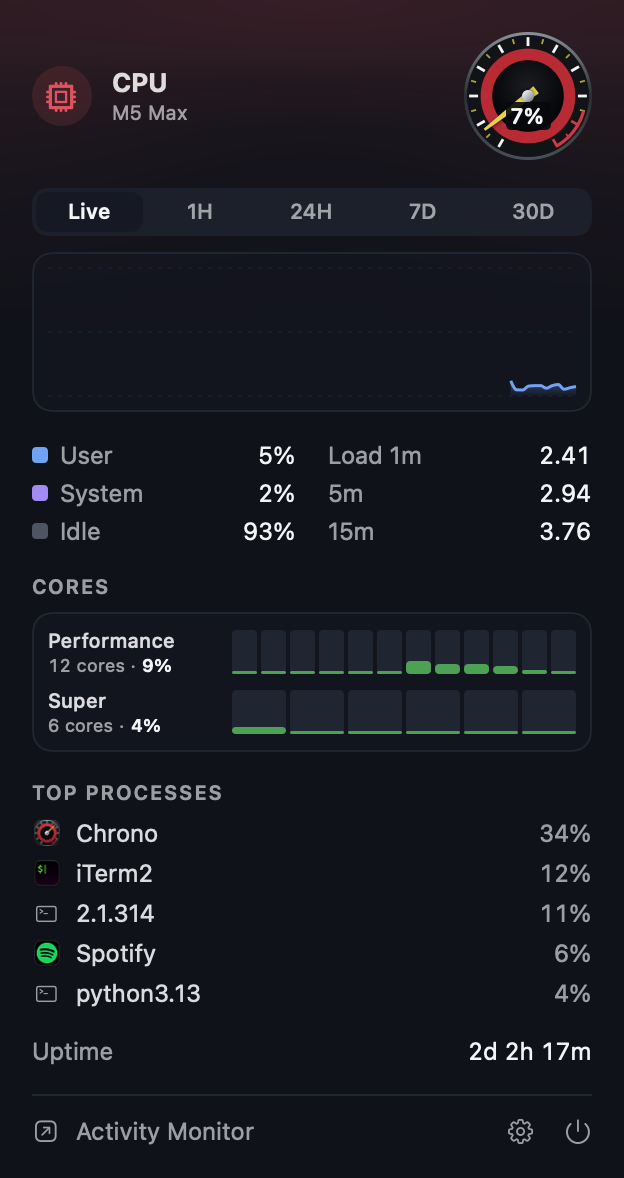
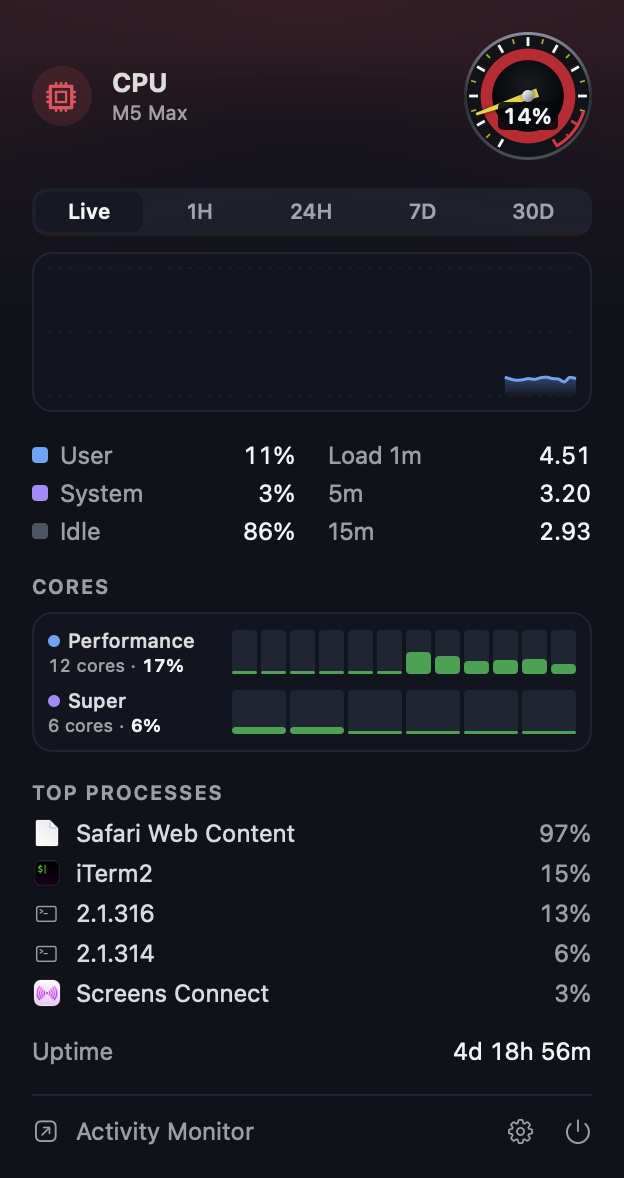
Stop closed panels from re-rendering, and refresh the screenshots
A panel's SwiftUI view stayed alive after its popover closed and kept
re-rendering on every update, about 1% CPU per panel ever opened. Panels
are now built when they open and released when they close, which keeps
the app near 1.7% CPU.

The CPU and GPU screenshots are retaken: the GPU panel shows the Busy,
Clock and Power rows, and snapshot mode's last reading spans 2 seconds,
so it no longer inflates Chrono's own CPU share.

diff --git a/Sources/Chrono/StatusBarController.swift b/Sources/Chrono/StatusBarController.swift
@@ -56,9 +56,6 @@ private final class ModuleItem: NSObject, NSPopoverDelegate {
         popover.behavior = .transient
         popover.animates = true
         popover.delegate = self
-        let host = NSHostingController(rootView: PanelView(module: module, store: store))
-        host.sizingOptions = .preferredContentSize
-        popover.contentViewController = host
         return popover
     }()
 
@@ -118,6 +115,11 @@ private final class ModuleItem: NSObject, NSPopoverDelegate {
                 // instead of showing "Sampling…" until the next regular tick.
                 DispatchQueue.main.asyncAfter(deadline: .now() + 0.6) { [weak self] in self?.store.refresh() }
             }
+            // Built for each opening and dropped on close: a closed panel's view would otherwise keep
+            // re-rendering on every update.
+            let host = NSHostingController(rootView: PanelView(module: module, store: store))
+            host.sizingOptions = .preferredContentSize
+            popover.contentViewController = host
             popover.show(relativeTo: button.bounds, of: button, preferredEdge: .minY)
             popover.contentViewController?.view.window?.makeKey()
         }
@@ -146,6 +148,7 @@ private final class ModuleItem: NSObject, NSPopoverDelegate {
     }
 
     func popoverDidClose(_ notification: Notification) {
+        popover.contentViewController = nil
         if usesProcesses { store.processConsumers = max(0, store.processConsumers - 1) }
     }
 }

diff --git a/Sources/Chrono/Diagnostics.swift b/Sources/Chrono/Diagnostics.swift
@@ -46,6 +46,10 @@ enum Diagnostics {
             store.refreshNow()
             Thread.sleep(forTimeInterval: 0.5)
         }
+        // The last reading spans the app's default interval, so Chrono's own share of the CPU
+        // isn't inflated by sampling four times as often.
+        Thread.sleep(forTimeInterval: 2)
+        store.refreshNow()
 
         // Draw through a real NSHostingView in an offscreen window: ImageRenderer mis-resolves
         // dynamic colors (a translucent veil over everything), while the AppKit path matches the
